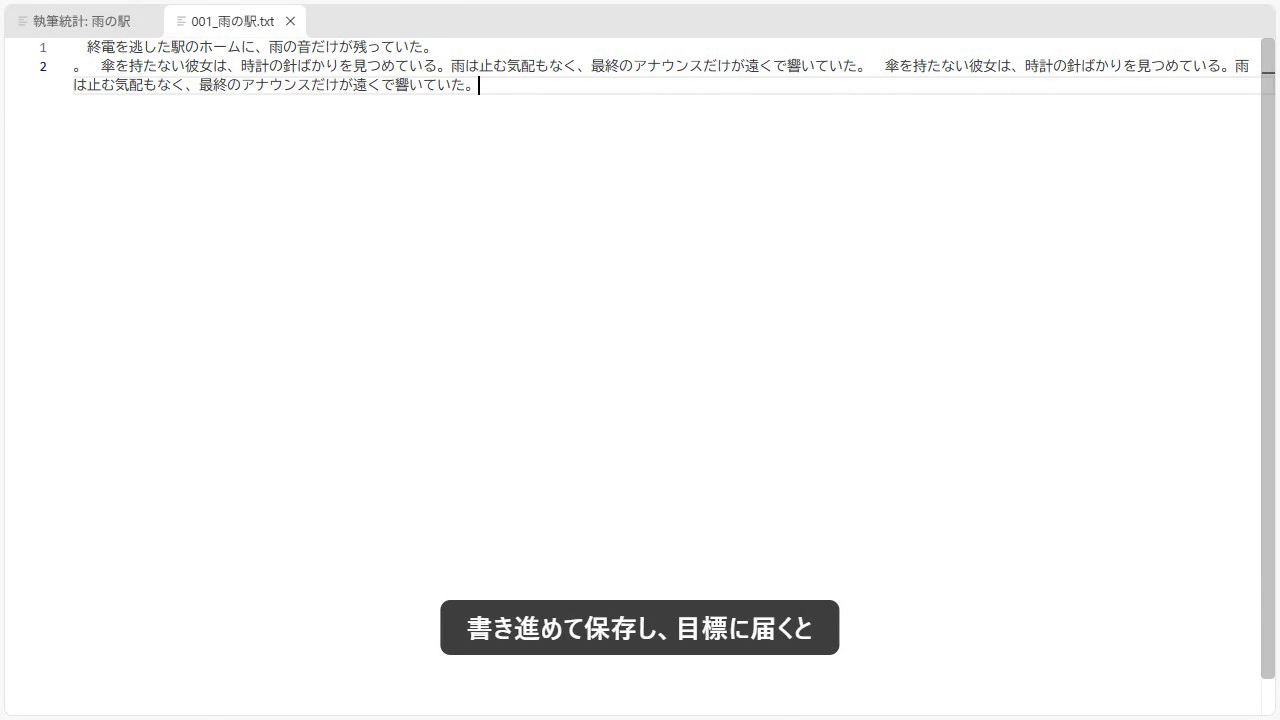
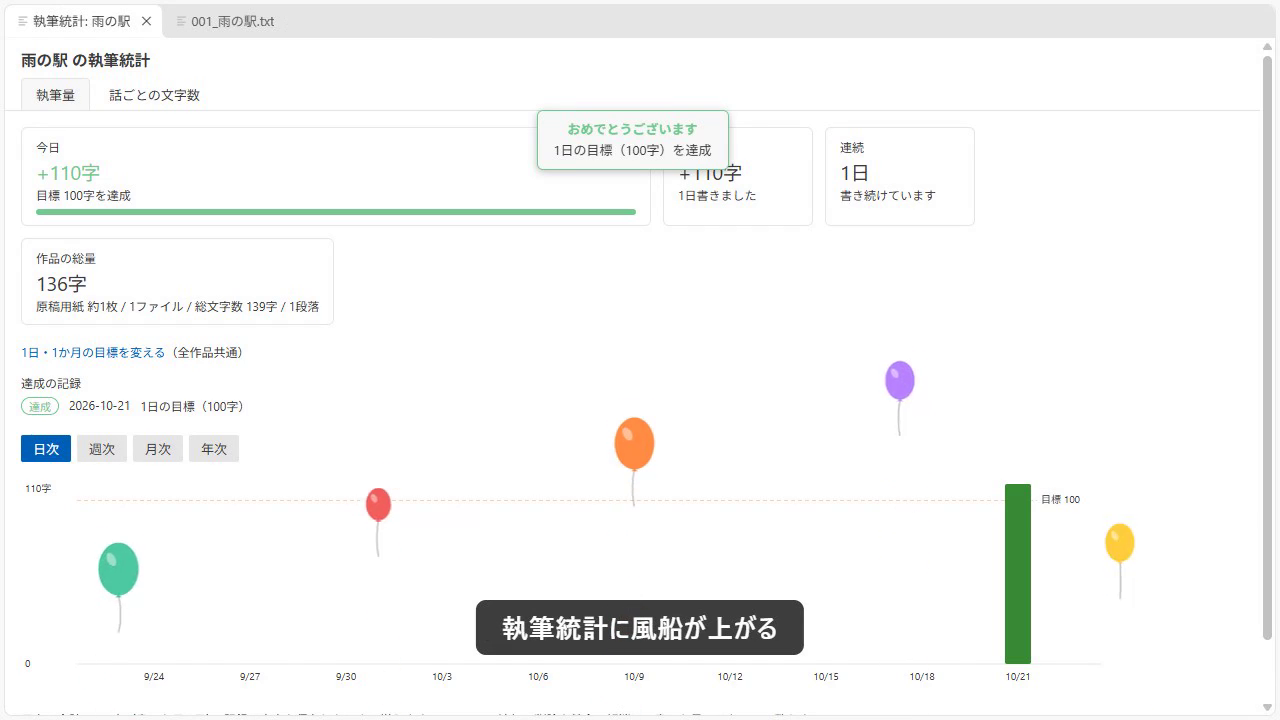
fix(promo): お祝いの画像を風船が上がっている場面に差し替え

diff --git a/test/e2e/promo/goalCelebrationScene.promo.ts b/test/e2e/promo/goalCelebrationScene.promo.ts
@@ -23,7 +23,7 @@ test("目標のお祝いの広報素材を撮る", async () => {
     episodes: [{ name: "001_雨の駅.txt", text: "　終電を逃した駅のホームに、雨の音だけが残っていた。\n" }],
     settings: { "novelai.stats.dailyGoal": 100, "window.zoomLevel": 0 },
     keybindings: [{ key: "ctrl+alt+shift+f8", command: "workbench.action.reopenTextEditor" }],
-    snapAt: 12,
+    snapAt: 14.2,
     play: async ({ page }, caption) => {
       await caption("1日の目標字数を決めておくと");
       await page.waitForTimeout(1_500);
